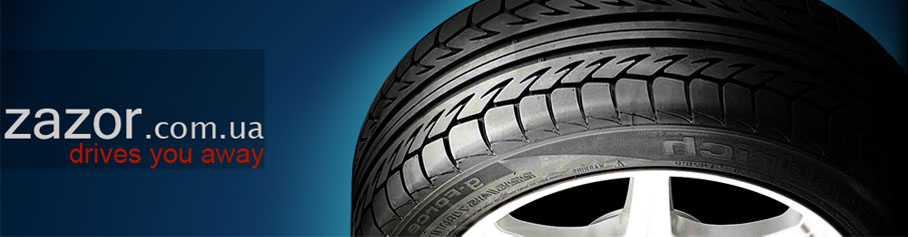
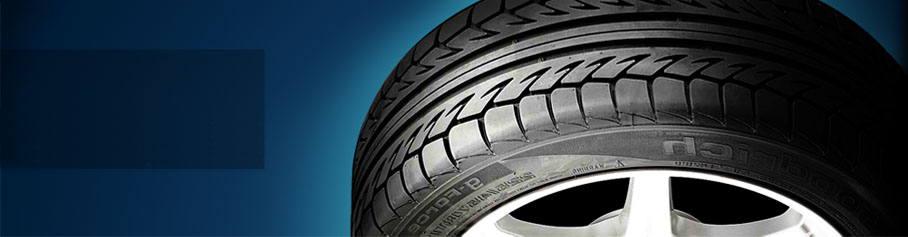
6 task add text in header

Changed region(s): [[0.0, 0.443, 0.3084, 0.5907], [0.0617, 0.6203, 0.3084, 0.7089]]

diff --git a/HTML_Modul_6/css/style.css b/HTML_Modul_6/css/style.css
@@ -4,6 +4,28 @@
     height: 200px;
 
 }
+.top-header{
+    position: relative;
+}
+.header-text-logo{
+    position: absolute;
+    font-family: Lucida Sans Unicode, Arial;
+    top: 135px;
+    left: 3px;
+    font-size: 31px;
+    color: #cececd;
+}
+.header-text-logo span{
+    font-size: 53px;
+}
+.header-text-logo-two{
+    position: absolute;
+    font-family: Lucida Sans Unicode, Arial;
+    color: #b91200;
+    font-size: 26px;
+    top: 188px;
+    left: 67px;
+}
 .number:before{
     position: absolute;
     content: "";

diff --git a/HTML_Modul_6/index.html b/HTML_Modul_6/index.html
@@ -27,6 +27,8 @@
                 <img src="img/3.png" alt="3" class="icons-img-three">
             </div>
             <img src="img/header-bg.jpg" class="header-bg">
+            <p class="header-text-logo"><span>zazor</span>.com.ua</p>
+            <p class="header-text-logo-two">drives you away</p>
         </div>
         <nav class="header-menu">
             <nav class="first-menu">
